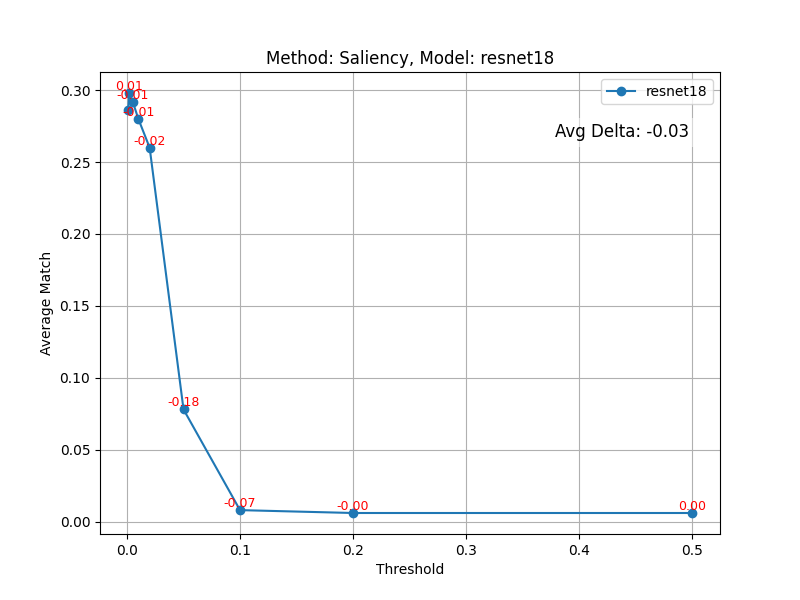
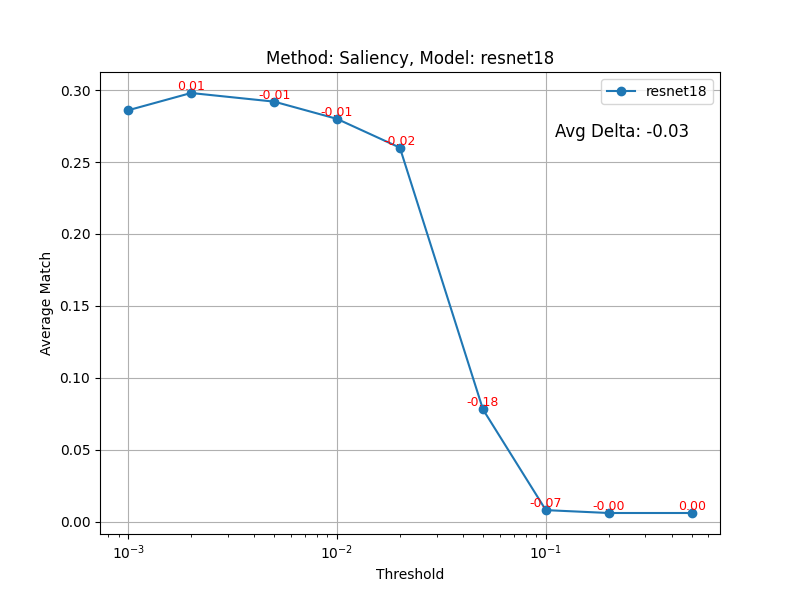
binary

diff --git a/LmmApi/LLMInterface.py b/LmmApi/LLMInterface.py
@@ -23,6 +23,9 @@ class LLMInterface:
         """Set the prompt for the LLM."""
         self.prompt = prompt
         self.jsonDescription = jsonDescription
+
+    def set_jsonDescription(self, jsonDescription: BaseModel):
+        self.jsonDescription = jsonDescription
     
     def get_response(self, image: str) -> str:
         """Generate a response using the current strategy."""
@@ -36,9 +39,24 @@ class LLMInterface:
             _, closest_label = gd.find_closest_category(item, self.imagenet_categories)
             arr.append(closest_label)
         return arr
+    
 
 
-    def structured_outputs_classification(self, root_directory: str, save_path: str):
+    # def iterator(self, root_directory: str, save_path: str, rewrite = False):
+    #     os.makedirs(save_path, exist_ok=True)
+    #     for dirpath, _, filenames in os.walk(root_directory):
+    #         image_files = [f for f in filenames if f.endswith('.png')]
+    #         for image in tqdm(image_files, desc=f"Processing files in {dirpath}"):
+    #             image_path = os.path.join(dirpath, image)
+    #             method = os.path.basename(dirpath)              
+    #             if os.path.isfile(save_path) and not rewrite:
+    #                 continue
+    #             response = self.boolean_classification(image_path, f"{method}.csv")
+    # def boolean_classification(self, image_path: str, csv_files: str):
+    #     # Generate a response from the LLM
+    #     response = self.strategy.generate_response(self.prompt, image_path, self.jsonDescription)
+
+    def structured_outputs_classification(self, root_directory: str, save_path: str, rewrite = False):
         """
         Classifies images in the specified root directory using a language model (LLM) strategy.
         The classification results are saved in CSV files, with one CSV file per method (folder name).
@@ -54,9 +72,16 @@ class LLMInterface:
             data = []
             max_labels = 0
             max_llm = 0
+
+            method = os.path.basename(dirpath)
+            save_path_csv = os.path.join(save_path, f"{method}.csv")
+            if os.path.isfile(save_path_csv) and not rewrite:
+                continue
+        
             for file in tqdm(image_files, desc=f"Processing files in {dirpath}"):
                 # Get the full path of the image file
                 file_path = os.path.join(dirpath, file)
+
 
                 # Generate a response from the LLM
                 response = self.strategy.generate_response(self.prompt, file_path, self.jsonDescription)
@@ -77,7 +102,7 @@ class LLMInterface:
                 # Extract image index, true label, and method (directory name)
                 index, mid = file.split('_')[:2]
                 true_label = mid.split('.')[0]
-                method = os.path.basename(dirpath)
+                
 
                 # Check if the true label is among the top 5 predicted labels
                 correctly = true_label in labels
@@ -94,9 +119,9 @@ class LLMInterface:
             df = pd.DataFrame(data, columns=columns)
 
             # Save the DataFrame to a CSV file
-            df.to_csv(os.path.join(save_path, f"{method}.csv"), index=False)
+            df.to_csv(save_path_csv, index=False)
 
-    def anchored_outputs_classification(self, root_directory: str, save_path: str):
+    def anchored_outputs_classification(self, root_directory: str, save_path: str, rewrite = False):
             """
             Classifies images in the specified root directory using a language model (LLM) strategy.
             The classification results are saved in CSV files, with one CSV file per method (folder name).
@@ -155,6 +180,75 @@ class LLMInterface:
 
                 # Save the DataFrame to a CSV file
                 df.to_csv(os.path.join(save_path, f"{method}.csv"), index=False)
+
+    def boolean_outputs_classification(self, root_directory: str, save_path: str, rewrite = False):
+        """
+        Classifies images in the specified root directory using a language model (LLM) strategy.
+        The classification results are saved in CSV files, with one CSV file per method (folder name).
+
+        Parameters:
+        - root_directory (str): The root directory containing subdirectories with images to classify.
+        - save_path (str): The directory where the CSV files with classification results will be saved.
+        """
+        os.makedirs(save_path, exist_ok=True)
+
+        for dirpath, _, filenames in os.walk(root_directory): 
+            image_files = [f for f in filenames if f.endswith('.png')] 
+            data = []
+            max_labels = 0
+            max_llm = 0
+
+            method = os.path.basename(dirpath)
+            save_path_csv = os.path.join(save_path, f"{method}.csv")
+            if os.path.isfile(save_path_csv) and not rewrite:
+                continue
+        
+
+            for file in tqdm(image_files, desc=f"Processing files in {dirpath}"):
+                # Get the full path of the image file
+                file_path = os.path.join(dirpath, file)
+                image_name = os.path.basename(file_path)
+                image_name = image_name.split('_')[1].split('.')[0]  # Extracts 'tench'
+
+                # Generate a response from the LLM
+                response = self.strategy.generate_response(f"What do you see in the picture? Is it a {image_name} from the imagenet database?", file_path, self.jsonDescription)
+
+                # Extract the model dump from the response
+                response = list(response.model_dump().values())
+
+                # Find the top 5 predicted labels
+                # labels = []
+                # for item in response:
+                #     _, closest_label = gd.find_closest_category(item, self.imagenet_categories)
+                #     labels.append(closest_label)
+                
+                # Update the maximum number of labels
+                max_labels = 0
+                max_llm = 1
+
+                # Extract image index, true label, and method (directory name)
+                index, mid = file.split('_')[:2]
+                true_label = mid.split('.')[0]
+                
+
+                # Check if the true label is among the top 5 predicted labels
+                correctly = response[0]
+
+                data.append([index, true_label, correctly] + response)
+
+            if len(data) == 0:
+                continue
+
+            label_columns = [f'Class_{i+1}' for i in range(max_labels)]
+            llm_columns = [f'llm_{i+1}' for i in range(max_llm)]
+            columns = ['Index', 'True_Label', 'Match'] + label_columns + llm_columns
+            # Create a DataFrame from the array and add the column titles
+            df = pd.DataFrame(data, columns=columns)
+
+            # Save the DataFrame to a CSV file
+            df.to_csv(save_path_csv, index=False)
+
+                
 
 
 

diff --git a/main.py b/main.py
@@ -9,26 +9,6 @@ import pandas as pd
 
 
 
-def calculate_accuracy(root_directory: str, save_path: str):
-
-    #os.makedirs(save_path, exist_ok=True)
-
-    for dirpath, _, filenames in os.walk(root_directory): 
-        image_files = [f for f in filenames if f.endswith('.csv')] 
-
-        for file in image_files:
-            # Get the full path of the image file
-            file_path = os.path.join(dirpath, file)
-
-            # Load the CSV file into a DataFrame
-            df = pd.read_csv(file_path)
-
-            # Calculate the average of the 'Match' column
-            average_match = df['Match'].mean()
-
-            print(f"Average match for {file}: {average_match}")
-
-
 
 
 def ask_llm(imges_path: str, save_path: str, jsonDescription: BaseModel | None = None):
@@ -67,7 +47,7 @@ def image_creater(dir_path: str, save_path: str, samples: int = 200):
 
     # Explanation methods and thresholds
     explanation_methods = ['Saliency']
-    thresholds = [0.001, 0.002, 0.005, 0.01, 0.02, 0.05, 0.1, 0.2, 0.5]
+    thresholds = [0.001, 0.002, 0.005, 0.01, 0.02,  0.05,  0.1, 0.2, 0.5]
 
     # Initialize dataset interface
     dataset = di.dataset_interface(dir_path, save_path, samples)
@@ -92,15 +72,22 @@ class ImageDescription_5(BaseModel):
     category3: str
     category4: str
     category5: str
+
+class ImageDescription_Boolean(BaseModel):
+    boolean: bool   
     
 
 
 if __name__ == "__main__":
-    #image_creater("data\\source\\imagenet_sample2\\pt", "data\\mid", samples=500)
+    image_creater("data\\source\\imagenet_sample2\\pt", "data\\mid", samples=200)
 
-    #ask_llm("data\\mid\\Saliency_0.001_resnet18", "data\\llm_answer\\anchored_structured_outputs\\5_categoris", ImageDescription_5)
-    #ask_llm("data\\mid\\Saliency_0.001_resnet18", "data\\llm_answer\\anchored_structured_outputs\\1_categoris", ImageDescription_1)
+    llama = llama32Vision11b()
+    llm_context = LLMInterface(llama)
+    llm_context.set_prompt("Tell me what you see in the picture and what category it is from imagenet")
 
-    results.calculate_accuracy("data\\llm_answer\\structured_outputs\\5_categoris", "data\\llm_answer\\structured_outputs\\5_categoris\\results")
-    print("-------------------------------------------------")
-    results.calculate_accuracy("data\\llm_answer\\structured_outputs\\1_categoris", "data\\llm_answer\\structured_outputs\\1_categoris\\results")
+
+    llm_context.set_jsonDescription(ImageDescription_Boolean)
+    llm_context.boolean_outputs_classification("data\\mid", "data\\llm_answer\\boolean")
+
+    results.calculate_accuracy("data\\llm_answer\\boolean", "data\\llm_answer\\boolean\\results")
+    #results.calculate_accuracy("data\\mid\\csv", "data\\mid\\csv\\results")

diff --git a/data/results.py b/data/results.py
@@ -102,7 +102,7 @@ def plot_graphs_from_table(data_path: str, save_directory: str):
         plt.title(f'Method: {method}, Model: {pre_trained_model}')
         plt.xlabel('Threshold')
         plt.ylabel('Average Match')
-        #plt.xscale('log')
+        plt.xscale('log')
         plt.grid(True)
         plt.legend()
 
@@ -159,7 +159,7 @@ def combined_plot_graphs_from_table(data_path: str, save_directory: str):
     plt.title('Threshold vs. Average Match for All Methods and Models')
     plt.xlabel('Threshold')
     plt.ylabel('Average Match')
-    #plt.xscale('log')  # Apply log scale to the x-axis
+    plt.xscale('log')  # Apply log scale to the x-axis
     plt.grid(True)
     plt.legend()
 
